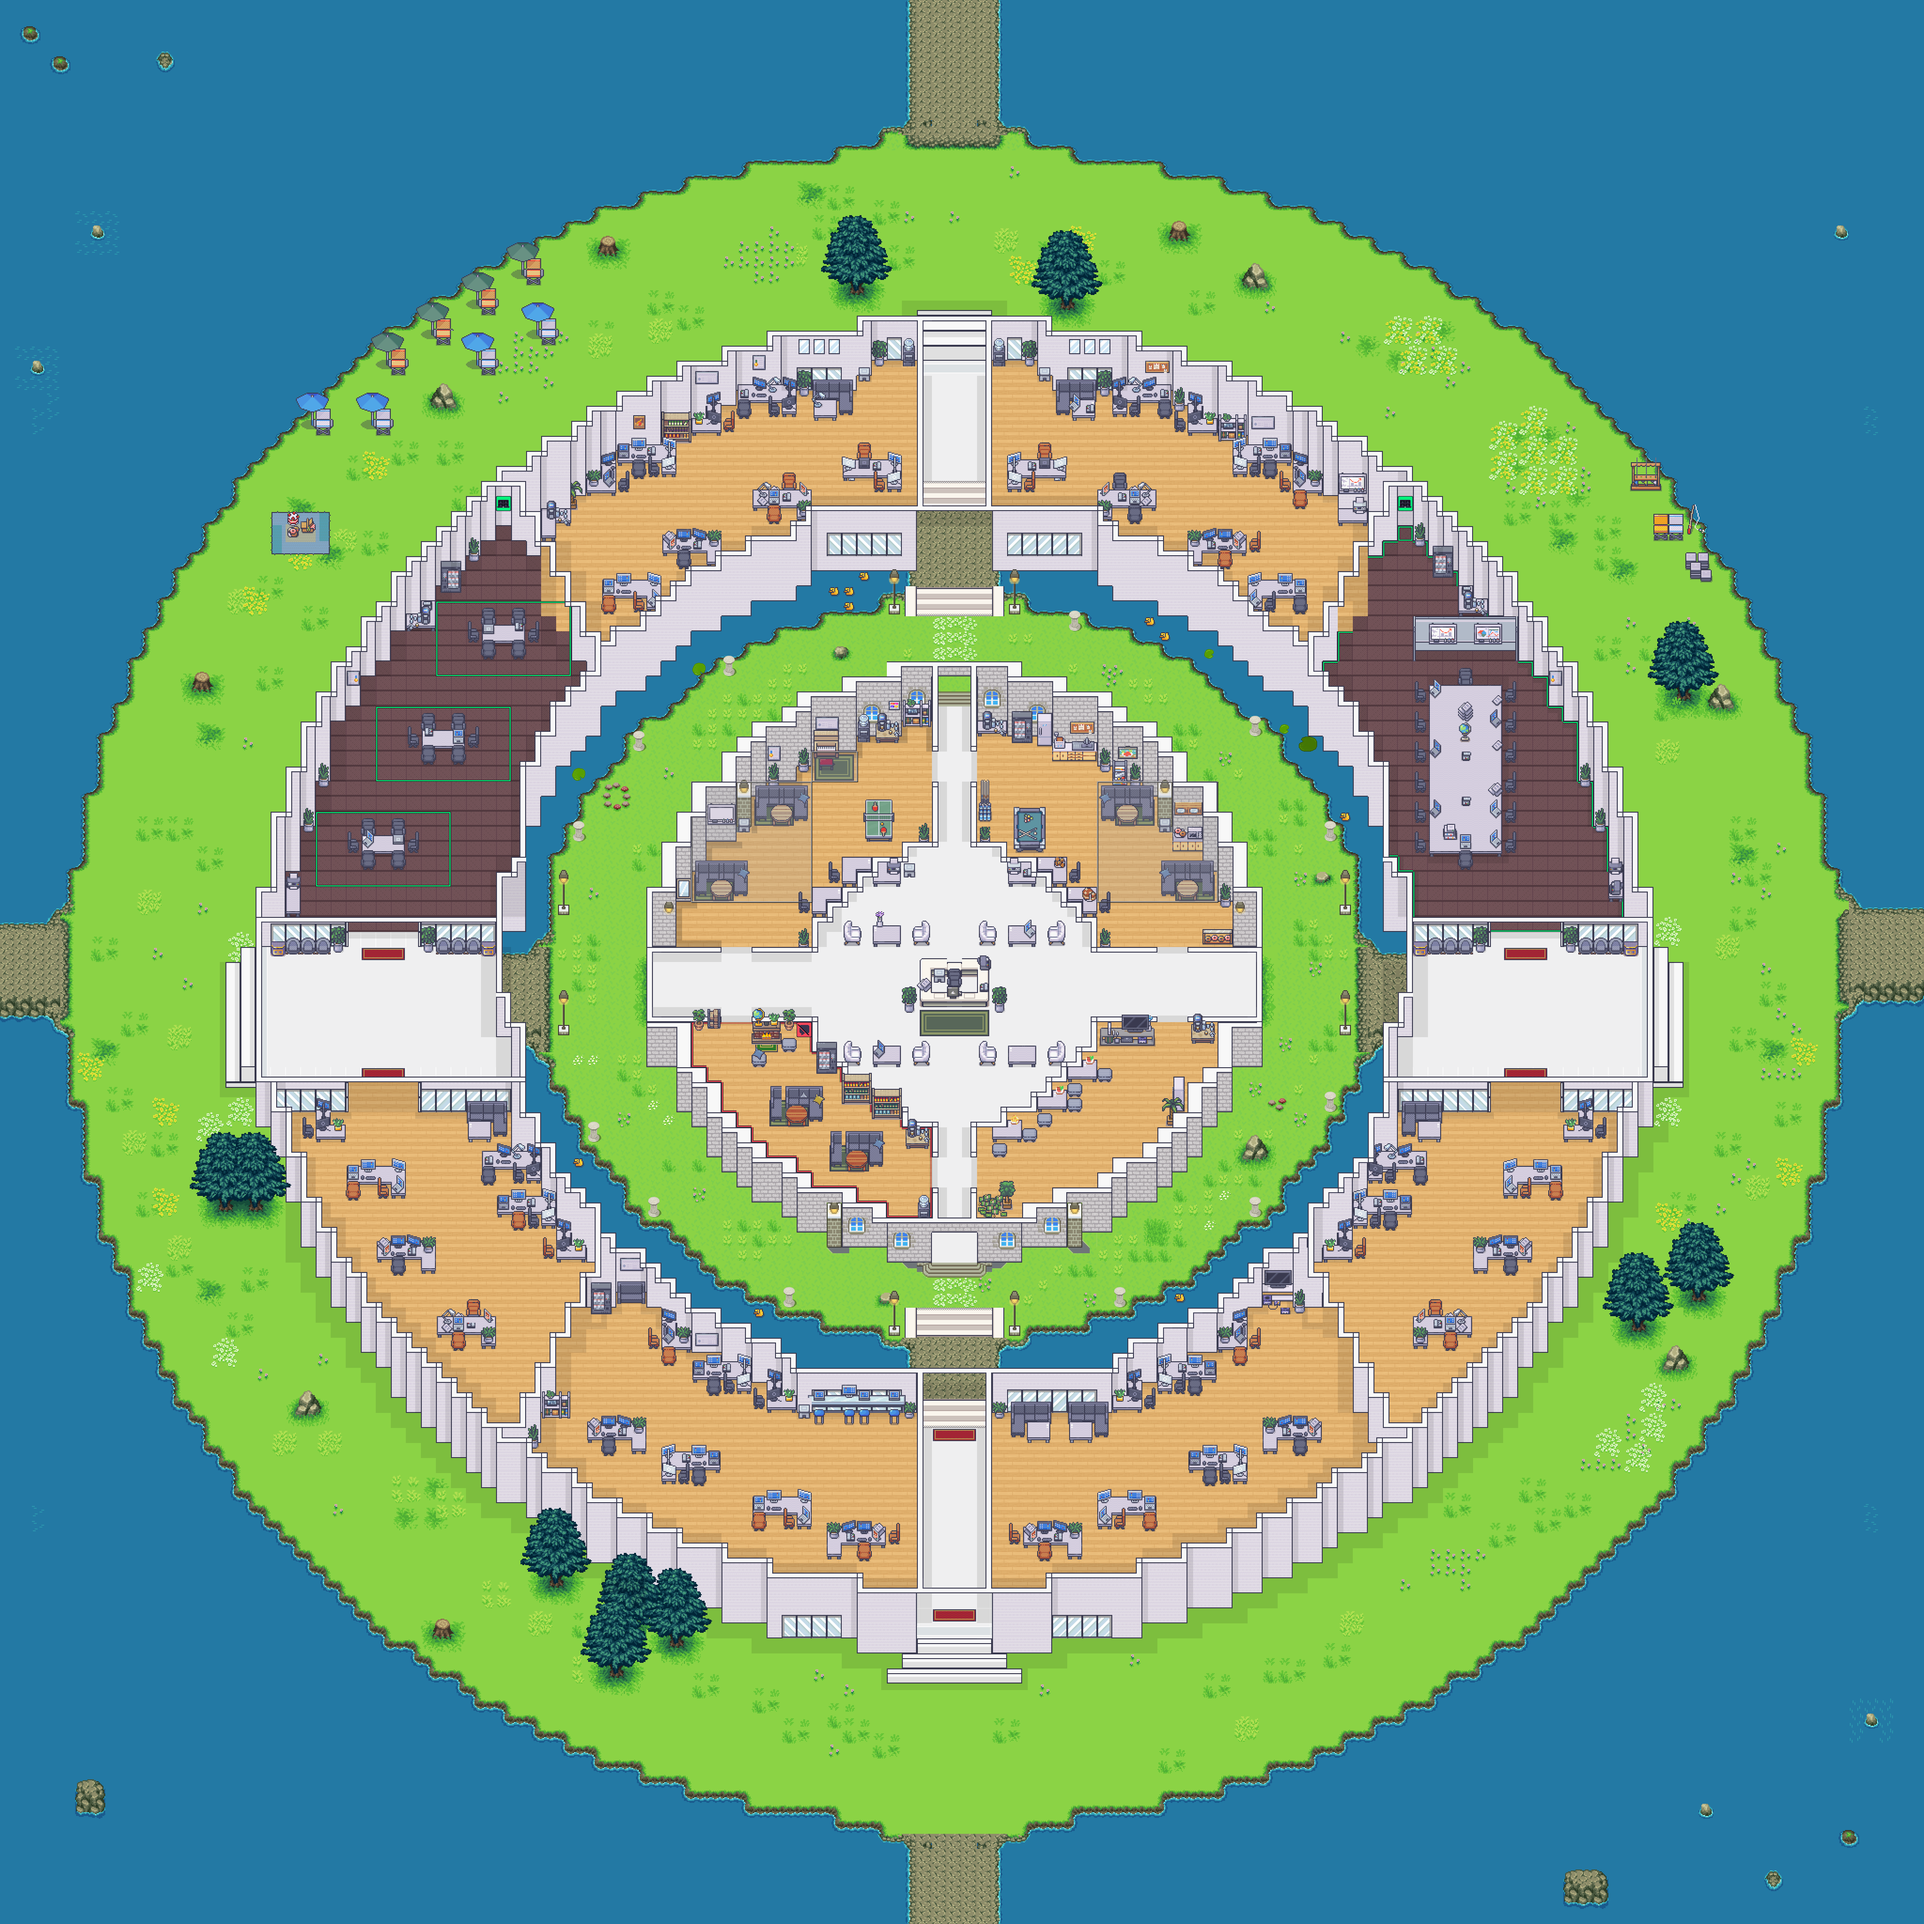
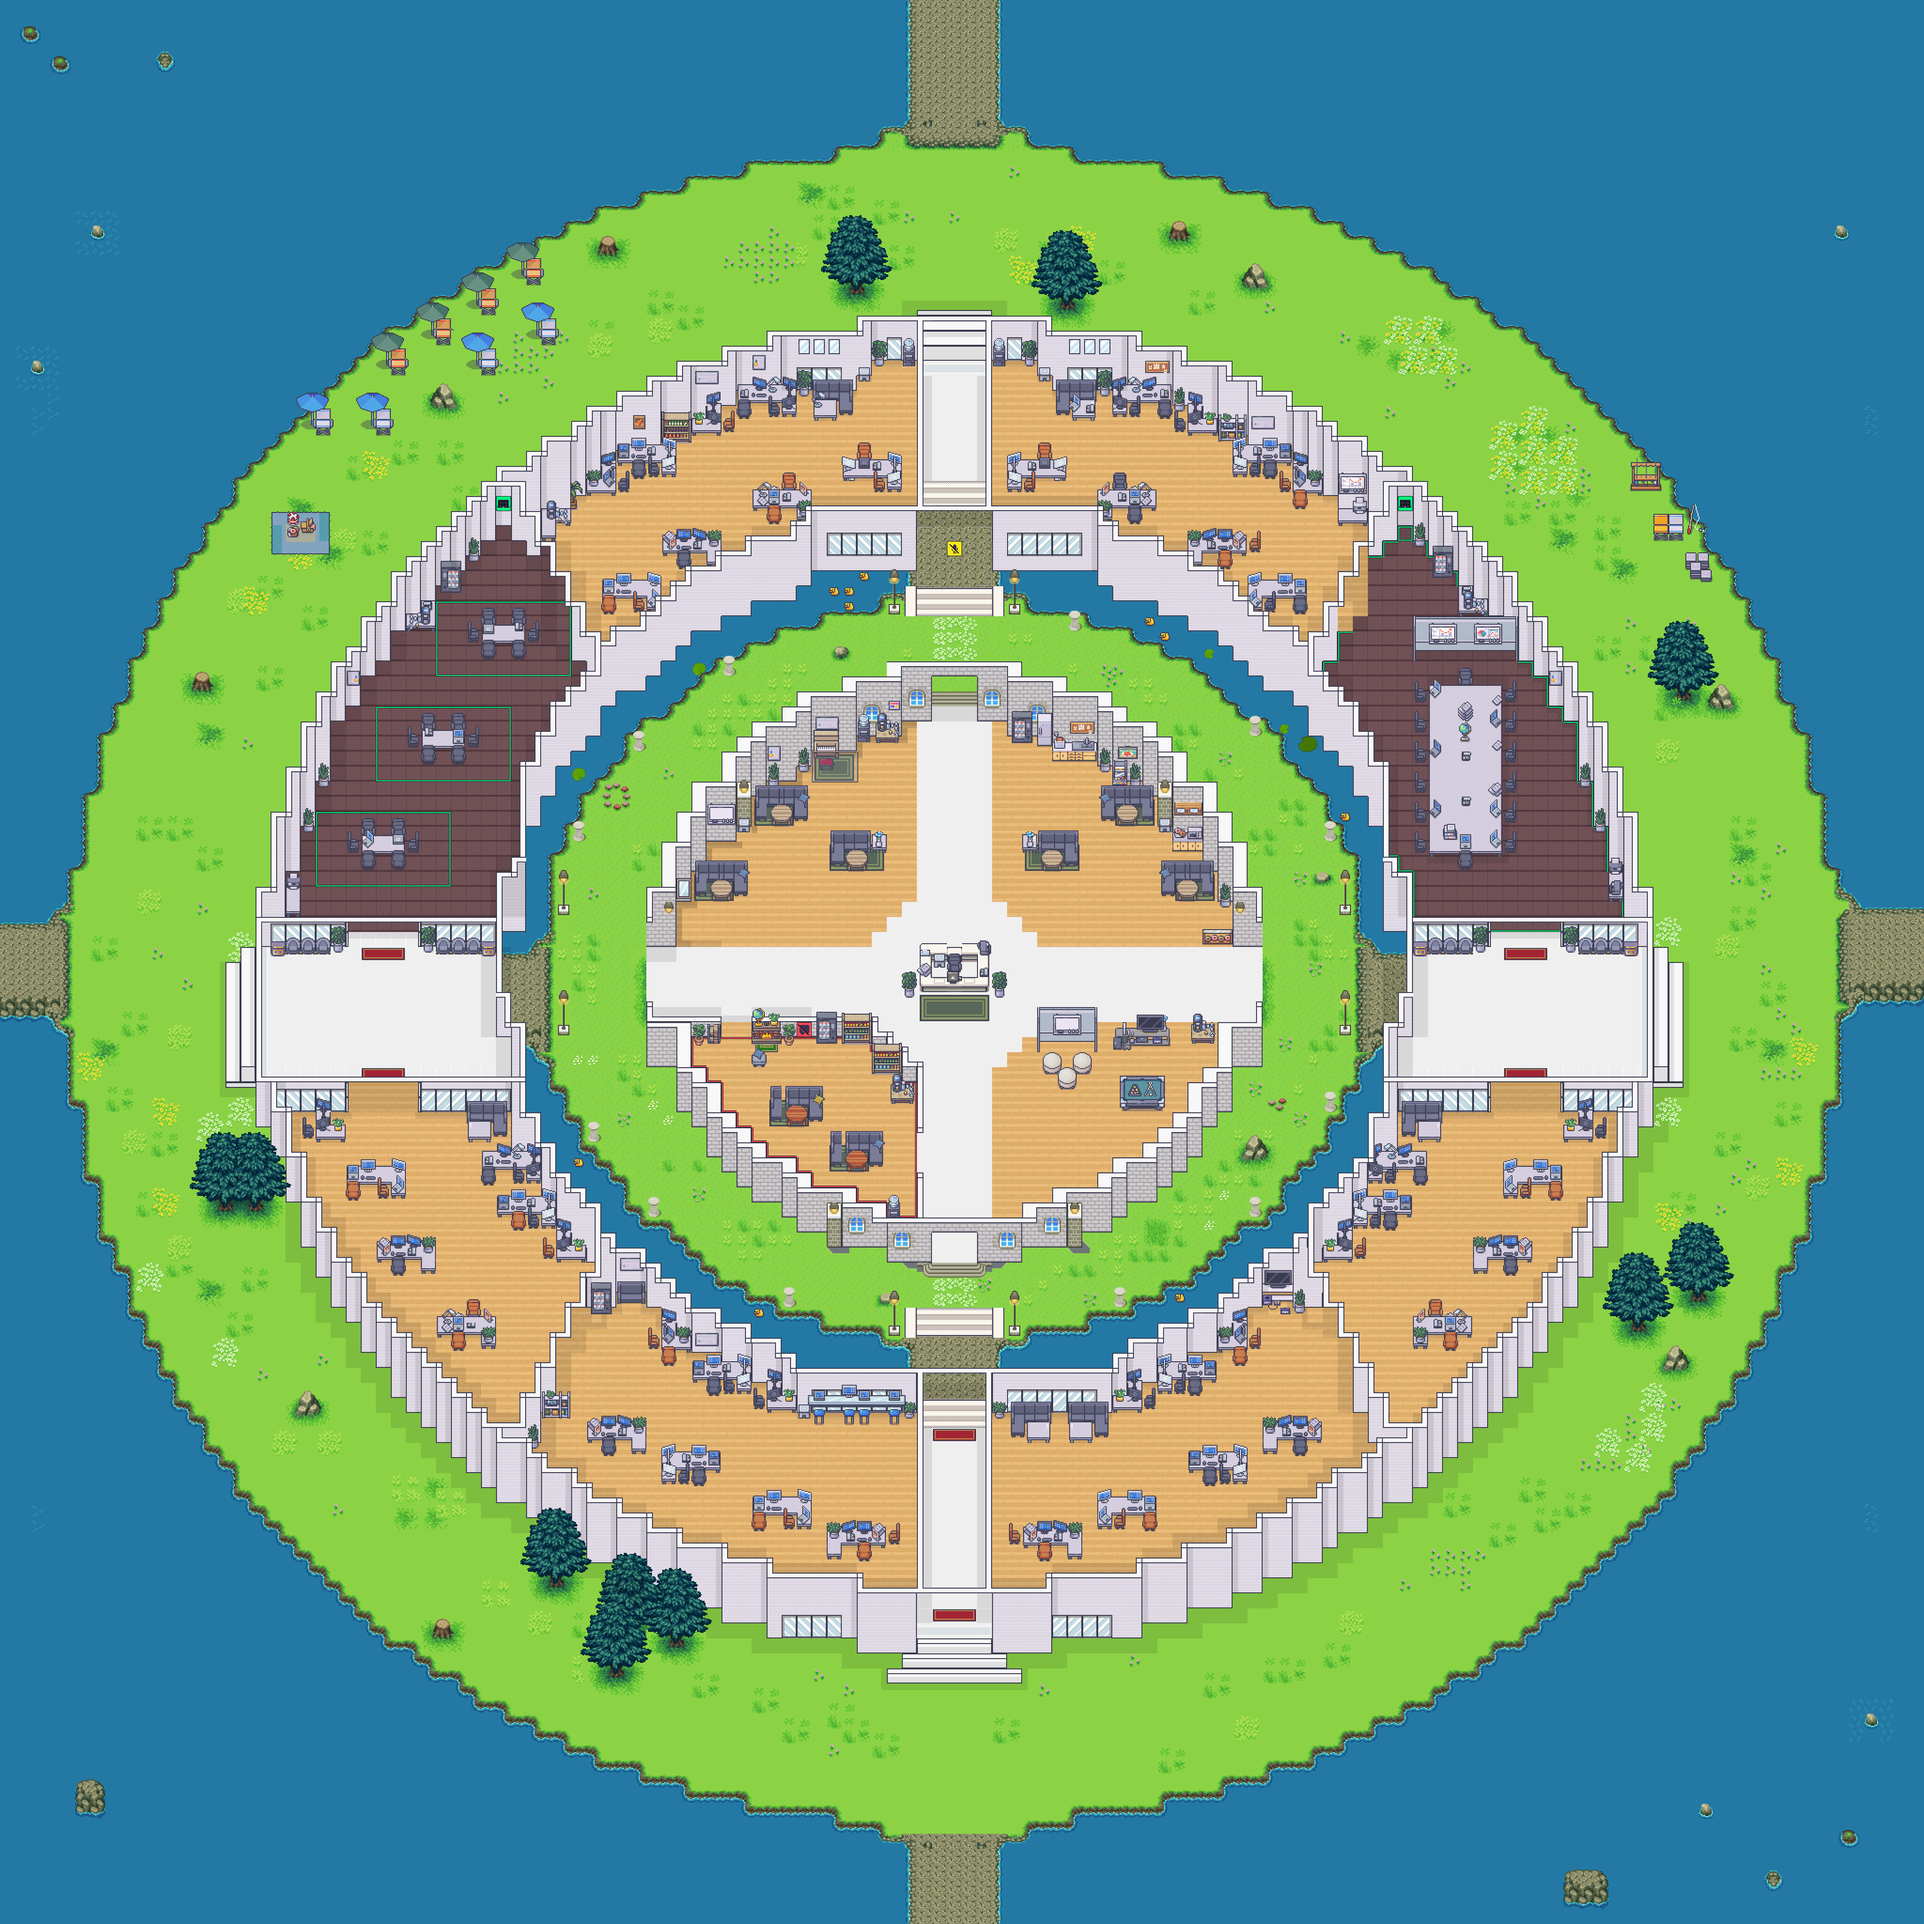
Signage and Spawn Point
Added Signs and Re adjusted spawn point

Changed region(s): [[0.4062, 0.3438, 0.625, 0.6562], [0.2812, 0.2812, 0.3125, 0.3438], [0.3438, 0.5312, 0.375, 0.5625]]

diff --git a/tilesets/Signage.tsx b/tilesets/Signage.tsx
@@ -1,0 +1,4 @@
+<?xml version="1.0" encoding="UTF-8"?>
+<tileset version="1.10" tiledversion="1.11.2" name="Signage" tilewidth="32" tileheight="32" tilecount="200" columns="10">
+ <image source="Signage.png" width="320" height="640"/>
+</tileset>
